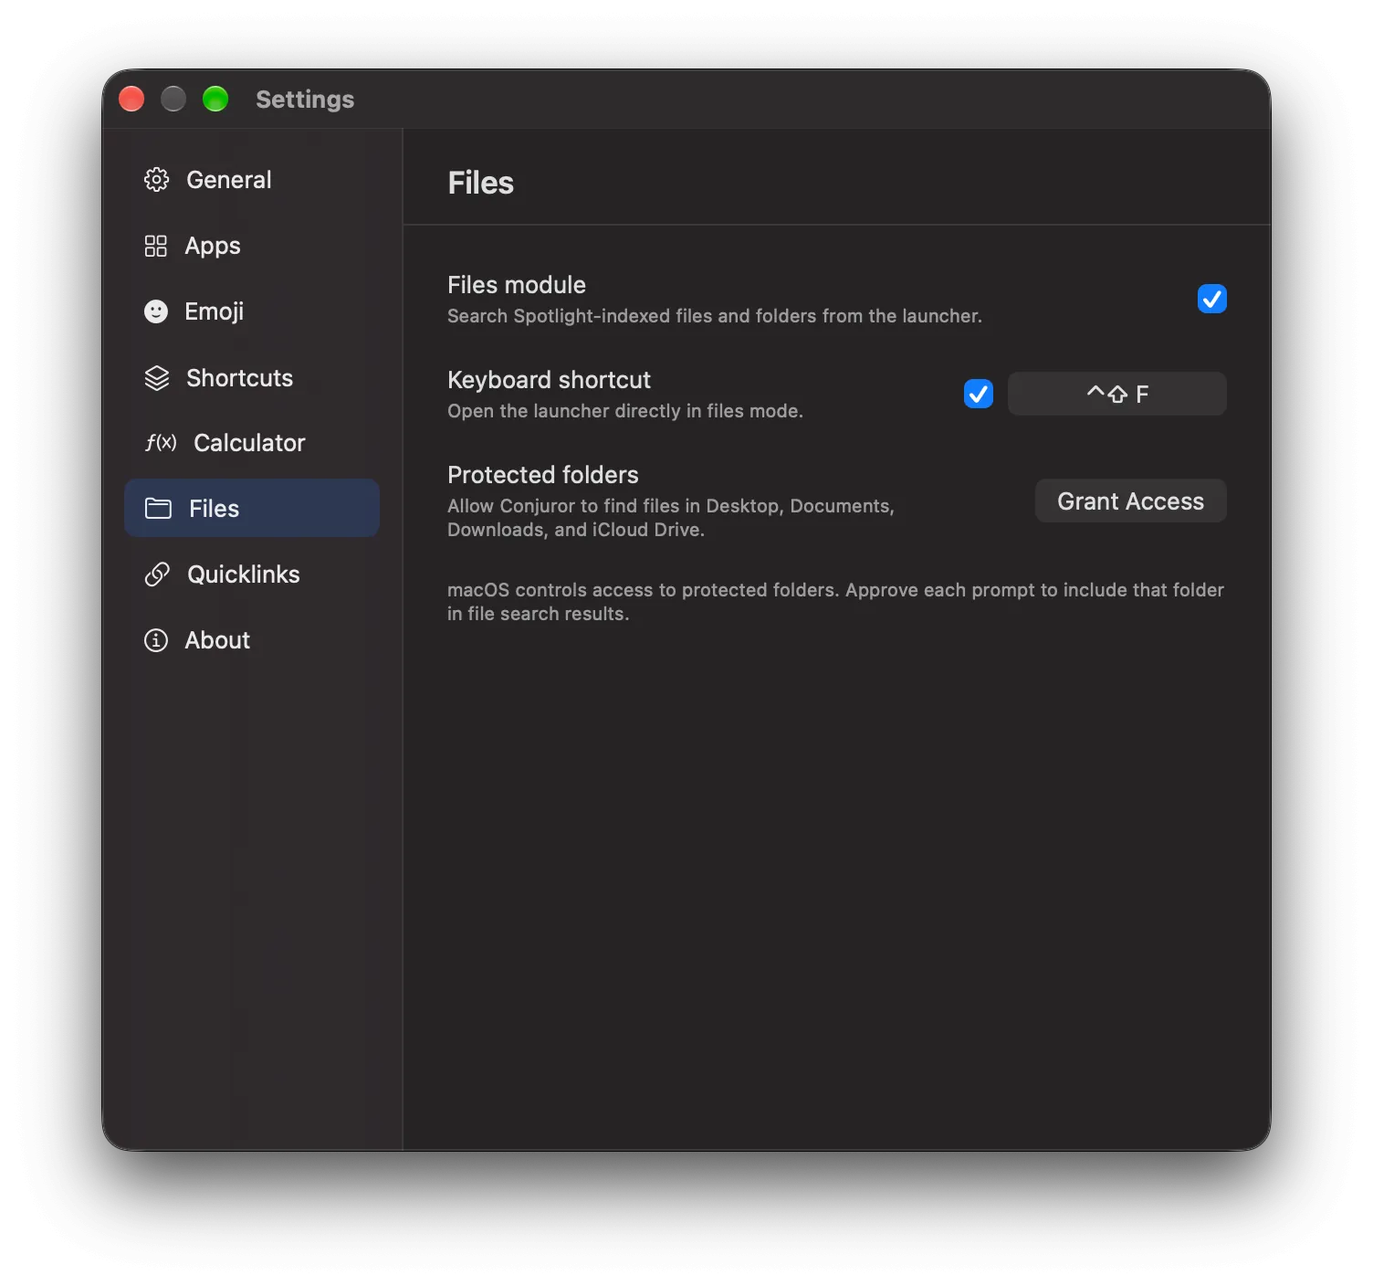
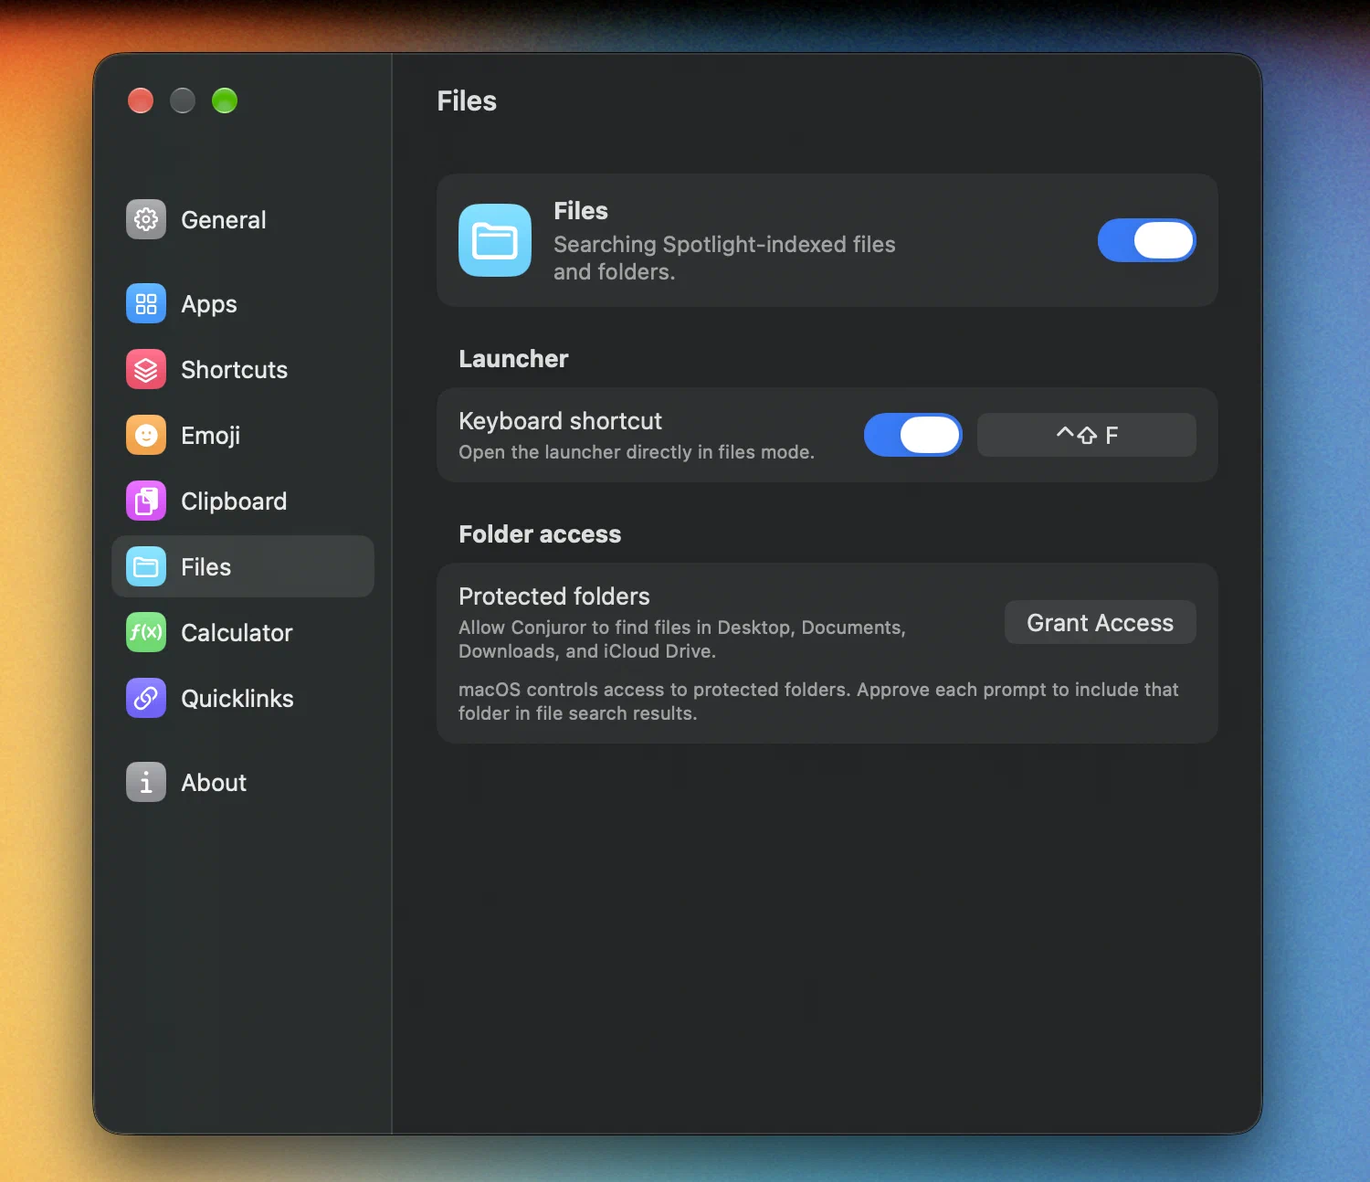
Refresh screenshots, add Clipboard mode preview, and polish docs

diff --git a/assets/css/home.css b/assets/css/home.css
@@ -42,9 +42,9 @@ h1 { font-size: clamp(3.5rem, 6.2vw, 6rem); }
 .hero-product { position: relative; min-width: 0; padding: 2rem 0; }
 .hero-instructions { margin: 1.5rem 0 0; color: var(--muted); font-size: .9rem; line-height: 1.8; text-align: center; }
 .screenshot-frame {
-  --screenshot-y: 160;
-  --screenshot-height: 620;
-  aspect-ratio: 1180 / var(--screenshot-height);
+  --screenshot-y: 74;
+  --screenshot-height: 686;
+  aspect-ratio: 1200 / var(--screenshot-height);
   position: relative;
   z-index: 2;
   overflow: hidden;
@@ -57,19 +57,19 @@ h1 { font-size: clamp(3.5rem, 6.2vw, 6rem); }
 .screenshot-frame img {
   position: absolute;
   display: block;
-  width: calc(100% * 1404 / 1180);
+  width: calc(100% * 1500 / 1200);
   max-width: none;
   height: auto;
-  left: calc(-100% * 112 / 1180);
+  left: calc(-100% * 140 / 1200);
   top: calc(-100% * var(--screenshot-y) / var(--screenshot-height));
 }
 
 
-.screenshot-frame--hero { --screenshot-height: 533; width: min(100%, 46rem); margin-left: auto; }
-.screenshot-frame--calculate { --screenshot-height: 335; }
-.screenshot-frame--files { --screenshot-height: 533; }
-.screenshot-frame--emoji { --screenshot-height: 352; }
-.screenshot-frame--shortcuts { --screenshot-height: 533; }
+.screenshot-frame--hero { --screenshot-height: 686; width: min(100%, 46rem); margin-left: auto; }
+.screenshot-frame--calculate { --screenshot-height: 356; }
+.screenshot-frame--files { --screenshot-height: 686; }
+.screenshot-frame--emoji { --screenshot-height: 374; }
+.screenshot-frame--shortcuts { --screenshot-height: 686; }
 .magic-trail { position: absolute; z-index: 1; left: -7rem; bottom: 1rem; width: 22rem; height: 11rem; border-bottom: 2px solid var(--violet); border-radius: 0 0 60% 60%; transform: rotate(-24deg); filter: drop-shadow(0 0 8px rgba(113,87,245,.5)); }
 .magic-trail span { position: absolute; width: .45rem; height: .45rem; background: var(--yellow); box-shadow: 0 0 1.2rem var(--yellow); animation: star-twinkle 3.8s ease-in-out infinite; --star-rotation: 45deg; }
 .magic-trail span:nth-child(1) { right: 7%; top: 68%; }
@@ -88,7 +88,7 @@ h1 { font-size: clamp(3.5rem, 6.2vw, 6rem); }
   gap: 1.5rem clamp(2rem, 6vw, 6rem);
 }
 
-.modes-image { --screenshot-y: 210; --screenshot-height: 700; width: 100%; }
+.modes-image { --screenshot-y: 74; --screenshot-height: 754; width: 100%; }
 .modes-image img {
   position: absolute;
   opacity: 0;
@@ -103,7 +103,7 @@ h1 { font-size: clamp(3.5rem, 6.2vw, 6rem); }
 .modes-copy p kbd { border-color: rgba(11,16,34,.24); color: var(--ink); background: rgba(255,255,255,.3); }
 .mode-list {
   display: grid;
-  grid-template-columns: repeat(3, 1fr);
+  grid-template-columns: repeat(12, 1fr);
   margin: .8rem 0 0;
   padding: 0;
   border-top: 1px solid rgba(11,16,34,.2);
@@ -111,21 +111,23 @@ h1 { font-size: clamp(3.5rem, 6.2vw, 6rem); }
   list-style: none;
 }
 
-.mode-list li { position: relative; overflow: hidden; transition: background-color .3s ease, box-shadow .3s ease; }
+.mode-list li { grid-column: span 3; position: relative; overflow: hidden; transition: background-color .3s ease, box-shadow .3s ease; }
+.mode-list li:nth-child(n+5) { grid-column: span 4; border-top: 1px solid rgba(11,16,34,.2); }
 .mode-list li + li { border-left: 1px solid rgba(11,16,34,.2); }
-.mode-list li:nth-child(3n+1) { border-left: 0; }
-.mode-list li:nth-child(n+4) { border-top: 1px solid rgba(11,16,34,.2); }
+.mode-list li:nth-child(1),
+.mode-list li:nth-child(5) { border-left: 0; }
 .mode-list li.is-active { background: rgba(255,255,255,.38); box-shadow: inset 0 -3px var(--ink); }
-.mode-list button { display: grid; width: 100%; height: 100%; justify-items: center; gap: .65rem; padding: 1.75rem 2rem 2rem; border: 0; color: inherit; background: transparent; font: inherit; text-align: center; cursor: pointer; }
+.mode-list button { display: grid; width: 100%; height: 100%; justify-items: center; gap: .65rem; padding: 1.75rem 1.4rem 2rem; border: 0; color: inherit; background: transparent; font: inherit; text-align: center; cursor: pointer; }
 .mode-list button:hover { background: rgba(255,255,255,.2); }
 .mode-selector-label { margin: 2.5rem 0 0; font-size: .85rem; font-weight: 600; }
 .mode-list button:focus-visible { outline: .18rem solid var(--violet); outline-offset: -.3rem; }
 .mode-list span { color: #5636c9; font: 650 .75rem/1 ui-monospace, "SFMono-Regular", Menlo, monospace; letter-spacing: .08em; }
 .mode-list li:nth-child(2) span { color: #075f76; }
 .mode-list li:nth-child(3) span { color: #704600; }
-.mode-list li:nth-child(4) span { color: #17548f; }
-.mode-list li:nth-child(5) span { color: #8a2f5b; }
+.mode-list li:nth-child(4) span { color: #8a2f5b; }
+.mode-list li:nth-child(5) span { color: #17548f; }
 .mode-list li:nth-child(6) span { color: #2f6b2a; }
+.mode-list li:nth-child(7) span { color: #9a3412; }
 .mode-list strong { font-size: 1.3rem; letter-spacing: -.025em; }
 .mode-list small { max-width: 16rem; color: rgba(11,16,34,.68); font-size: .95rem; line-height: 1.45; }
 

diff --git a/layouts/index.html b/layouts/index.html
@@ -29,7 +29,7 @@
         <div class="screenshot-frame modes-image" id="mode-screenshot">
           {{ range $index, $mode := $home.modes.items }}
             {{ $smallScreenshot := replace $mode.screenshot ".webp" "-900.webp" }}
-            <img class="mode-screenshot{{ if eq $index 0 }} is-active{{ end }}" src="{{ $mode.screenshot | relURL }}" srcset="{{ $smallScreenshot | relURL }} 900w, {{ $mode.screenshot | relURL }} 1404w" sizes="(max-width: 30.5rem) 72vw, (max-width: 52rem) 22rem, 28rem" alt="{{ $mode.screenshotAlt }}" width="1404" height="1100" data-mode-image="{{ $index }}"{{ if ne $index 0 }} aria-hidden="true"{{ end }}>
+            <img class="mode-screenshot{{ if eq $index 0 }} is-active{{ end }}" src="{{ $mode.screenshot | relURL }}" srcset="{{ $smallScreenshot | relURL }} 900w, {{ $mode.screenshot | relURL }} 1500w" sizes="(max-width: 30.5rem) 72vw, (max-width: 52rem) 22rem, 28rem" alt="{{ $mode.screenshotAlt }}" width="1500" height="1080" data-mode-image="{{ $index }}"{{ if ne $index 0 }} aria-hidden="true"{{ end }}>
           {{ end }}
         </div>
         <div class="modes-text">

diff --git a/assets/css/responsive.css b/assets/css/responsive.css
@@ -61,6 +61,9 @@
   .modes-copy h2 { font-size: clamp(3.2rem, 15vw, 4.8rem); }
   .modes-copy p { font-size: 1.05rem; }
   .mode-list { grid-template-columns: repeat(2, minmax(0, 1fr)); margin-top: .8rem; }
+  .mode-list li,
+  .mode-list li:nth-child(n+5) { grid-column: auto; }
+  .mode-list li:last-child:nth-child(odd) { grid-column: 1 / -1; }
   .mode-list button { padding: 1.1rem .6rem; }
   .mode-list strong { font-size: 1.1rem; }
   .mode-list small { font-size: .85rem; }

diff --git a/layouts/partials/screenshot.html b/layouts/partials/screenshot.html
@@ -1,3 +1,3 @@
 <div class="screenshot-frame {{ .class }}"{{ with .delay }} data-delay="{{ . }}"{{ end }}>
-  <img src="{{ .src | relURL }}" alt="{{ .alt }}" width="1404" height="878"{{ with .fetchPriority }} fetchpriority="{{ . }}"{{ else }} loading="lazy"{{ end }}>
+  <img src="{{ .src | relURL }}" alt="{{ .alt }}" width="1500" height="1080"{{ with .fetchPriority }} fetchpriority="{{ . }}"{{ else }} loading="lazy"{{ end }}>
 </div>

diff --git a/content/docs.md b/content/docs.md
@@ -61,17 +61,19 @@ Pasting needs Accessibility access. Until you allow it, Return copies the emoji 
 
 ## Launcher basics
 
-Press `⌥ + Space` to show Conjuror, then start typing. Use the arrow keys to select a result and press Return to open, copy, or run it. Conjuror hides after completing the action. After pasting or copying an emoji, clipboard item, or calculation result, or running a Shortcut, focus returns to the app you were using before opening Conjuror.
+Press `⌥ + Space` to show Conjuror, then start typing. Use the arrow keys to select a result and press Return to open, paste, copy, or run it. Conjuror hides after completing the action. After pasting or copying an emoji, clipboard item, or calculation result, or running a Shortcut, focus returns to the app you were using before opening Conjuror.
 
 Closing the launcher with Escape or its hotkey also returns focus to the previous app. If the query is not empty, press Escape once to clear it and again to close the launcher.
 
-Press `⌘ + Return` to reveal the selected app or file in Finder instead of opening it. Holding Return down does not repeat the action.
+Press `⌘ + Return` to reveal the selected app or file in Finder instead of opening it, or to copy the selected emoji or clipboard item without pasting. Holding Return down does not repeat the action.
 
 To change the main shortcut, open **Settings → Apps** and record a new key combination. Apple Shortcuts, Emoji, Clipboard, and Files each have a shortcut in their own Settings pane. Their defaults are `⌥ + ⇧ + Space`, `⌥ + ⇧ + E`, `⌥ + ⇧ + V`, and `⌘ + ⇧ + F`. The Clipboard shortcut only works while clipboard history is on.
 
-A mode shortcut can also be a tap of `fn` (🌐) on its own. This needs Accessibility access. macOS can also act on the 🌐 key, so Settings shows a warning until **Press 🌐 key to** is set to **Do Nothing** under **System Settings → Keyboard**. If a shortcut can’t be registered, for example `fn` before you allow Accessibility access, Conjuror tries again each time it becomes active.
+A mode shortcut can also be a tap of `fn` (🌐) on its own. This needs Accessibility access. macOS can also act on the 🌐 key, so Settings shows a warning until **Press 🌐 key to** is set to **Do Nothing** under **System Settings → Keyboard**. If a shortcut cannot be registered, for example `fn` before you allow Accessibility access, Conjuror tries again each time it becomes active.
 
 To change how the launcher looks, open **Settings → General** and choose **Launcher appearance**. Standard is the default. Minimal uses tighter spacing and smaller result rows, and hides the footer. Command Bar shows keyboard hints for the available actions, and previews the selected file or clipboard item beside the results.
+
+{{< docs-screenshot src="/images/screenshots/command-mode-files.webp" alt="Conjuror in Command Bar appearance searching files for “Four Against”, showing a side-by-side preview of the selected PDF and keyboard hints for Open item and Reveal" caption="Command Bar appearance adds keyboard hints and a side-by-side preview in Files and Clipboard modes." >}}
 
 While the search field is active, you can use the standard shortcuts for copy, paste, cut, select all, undo, and redo.
 
@@ -93,7 +95,7 @@ Give an app a short alias to rank it first. For example, with the alias `vs` for
 
 An app hotkey opens the app from anywhere, or switches to it if it is already running. Press the hotkey again while the app is in front to hide it. App hotkeys work without opening the launcher.
 
-{{< docs-screenshot src="/images/screenshots/alias.webp" alt="Conjuror showing Helium first for the query “brow”, with its alias “browse” next to the result" caption="Typing the start of an alias ranks its app first and shows the alias beside it." >}}
+{{< docs-screenshot src="/images/screenshots/alias.webp" alt="Conjuror showing Helium first for the query “bro”, with its alias “browser” next to the result" caption="Typing the start of an alias ranks its app first and shows the alias beside it." >}}
 
 To add an alias or hotkey, open **Settings → Apps**, choose **Aliases & Hotkeys**, then click **Add…** and pick an app. Aliases and hotkeys follow an app if you move it, as long as only one copy is installed. If a hotkey cannot be registered, for example because another app already uses it, your other hotkeys keep working.
 
@@ -107,7 +109,7 @@ To hide an app from search and recent results, open **Settings → Apps**, choos
 
 A quicklink opens a URL from the launcher. Type its keyword followed by search text, such as `gh swift testing`, to search GitHub for “swift testing”. Typing part of a quicklink’s name also finds it, listed after matching apps. If you press Return on a keyword with nothing after it, Conjuror fills in the keyword so you can keep typing.
 
-{{< docs-screenshot src="/images/screenshots/quicklink.webp" alt="Conjuror showing the GitHub quicklink for “gh swift testing” and a DuckDuckGo web search row" caption="The GitHub quicklink searches for the text after its keyword. The last row searches the web." >}}
+{{< docs-screenshot src="/images/screenshots/quicklink.webp" alt="Conjuror showing the GitHub quicklink for “gh swift testing” and a Kagi web search row" caption="The GitHub quicklink searches for the text after its keyword. The last row searches the web." >}}
 
 Conjuror includes Google (`g`), DuckDuckGo (`ddg`), GitHub (`gh`), and Wikipedia (`wiki`). Add, edit, or remove quicklinks under **Settings → Quicklinks**. Put `{query}` in the URL where the search text should go, as in `https://kagi.com/search?q={query}`. A URL without `{query}` opens as it is. Each quicklink opens in the default app for its URL unless you choose a different app. **Restore Built-ins** brings back any of the four built-in quicklinks you have removed.
 
@@ -115,7 +117,7 @@ The last row in application results searches the web for your query. Select it a
 
 Your search text is only sent to a site when you open one of its quicklinks or a web search.
 
-{{< docs-screenshot src="/images/screenshots/settings-quicklinks.webp" alt="Conjuror Quicklinks settings showing DuckDuckGo as the web search fallback and the built-in Google, DuckDuckGo, GitHub, and Wikipedia quicklinks" caption="Manage quicklinks and choose the web search fallback from Settings → Quicklinks." >}}
+{{< docs-screenshot src="/images/screenshots/settings-quicklinks.webp" alt="Conjuror Quicklinks settings showing Kagi as the web search fallback and the GitHub, Wikipedia, and Kagi quicklinks" caption="Manage quicklinks and choose the web search fallback from Settings → Quicklinks." >}}
 
 ## Running apps
 
@@ -133,7 +135,7 @@ Type `@` to list running apps, then press Return to switch to one. Excluded apps
 
 Force quitting and quitting every app ask first: press Return to confirm or Escape to cancel. Apps you hide stay hidden when the launcher closes.
 
-{{< docs-screenshot src="/images/screenshots/running-confirm.webp" alt="Conjuror in Running apps mode asking to confirm force quitting Discord, with Cancel and Force Quit buttons" caption="Force quit asks for confirmation before it runs." >}}
+{{< docs-screenshot src="/images/screenshots/running-confirm.webp" alt="Conjuror in Running apps mode asking to confirm force quitting Rex, with Cancel and Force Quit buttons" caption="Force quit asks for confirmation before it runs." >}}
 
 ## System commands
 
@@ -171,9 +173,9 @@ Desktop, Documents, Downloads, and iCloud Drive are protected by macOS. Conjuror
 
 Use `⌘ + ⇧ + F` to open Conjuror directly in Files mode. You can turn this shortcut off or record a different key combination under **Settings → Files**.
 
-To remove Files mode from the launcher, turn off **Files module** in the same Settings pane.
+To remove Files mode from the launcher, turn off **Files** in the same Settings pane.
 
-{{< docs-screenshot src="/images/screenshots/settings-files.webp" alt="Conjuror Files settings showing the enabled Files module, direct shortcut, and protected-folder access including iCloud Drive" caption="Enable file search, configure its shortcut, and grant protected-folder access from Settings → Files." >}}
+{{< docs-screenshot src="/images/screenshots/settings-files.webp" alt="Conjuror Files settings showing Files enabled, the direct keyboard shortcut, and protected-folder access including iCloud Drive" caption="Enable file search, configure its shortcut, and grant protected-folder access from Settings → Files." >}}
 
 ## Calculations
 
@@ -217,9 +219,13 @@ Use `to`, `in`, `->`, or `→` to convert a quantity to a specific unit. You can
 30 °C to °F
 5 ft 3 in
 100 lbs
+90 days in months
+2 years in days
 ```
 
-If you omit the target unit, Conjuror chooses a common counterpart. For example, it converts pounds to kilograms, centimetres to inches, or miles to kilometres. US customary volume units use US definitions.
+If you omit the target unit, Conjuror chooses a common counterpart. For example, it converts pounds to kilograms, centimetres to inches, miles to kilometres, or bare days to weeks (such as `1000 days`). US customary volume units use US definitions.
+
+Duration conversions support seconds, minutes, hours, days, weeks, months, and years, using fixed average durations (365.25 days per year and 30.4375 days per month) rather than calendar intervals. Results use unit symbols such as `wk`, `mo`, and `yr`.
 
 ### Relative dates
 
@@ -274,6 +280,8 @@ You can use arithmetic in the amount. To name the source currency after the arit
 
 If you omit the target currency, Conjuror uses the currency from your regional settings. It downloads a complete rate snapshot from [Frankfurter](https://frankfurter.dev) daily after a successful refresh; failed requests may be retried sooner. Your search text is never sent. The latest snapshot remains available offline, and disabling currency conversion removes the cached rates.
 
+{{< docs-screenshot src="/images/screenshots/settings-calculator.webp" alt="Conjuror Calculator settings showing the optional Currency conversion toggle enabled" caption="Turn optional daily exchange-rate downloads on or off from Settings → Calculator." >}}
+
 ## Emoji
 
 Type `:` to switch to Emoji mode, then search by emoji name or common keyword. For example, `lol` finds 😂 even though the word is not part of its Unicode name. Results include gender and skin-tone variants from the latest Unicode catalog.
@@ -284,15 +292,23 @@ Leave the search empty to see recently used emoji first. To apply the same skin 
 
 To remove Emoji mode from the launcher, turn it off under **Settings → Emoji**.
 
+{{< docs-screenshot src="/images/screenshots/settings-emoji.webp" alt="Conjuror Emoji settings showing Emoji enabled, the fn keyboard shortcut, and Light selected as the preferred skin tone" caption="Turn Emoji mode on or off, set its shortcut, and pick a default skin tone from Settings → Emoji." >}}
+
 ## Clipboard history
 
 Clipboard history is off by default. Turn it on under **Settings → Clipboard**, then type `#` or press `⌥ + ⇧ + V` to search text you have copied. Your most recent items come first, and each one shows the app it came from and how long ago you copied it.
 
+{{< docs-screenshot src="/images/screenshots/clipboard.webp" alt="Conjuror in Clipboard history mode listing recent text copies with their source app and age" caption="Clipboard history lists recent copies alongside the app they came from and when you copied them." >}}
+
 Press Return, or click an item, to paste it into the app you were using. Pasting needs Accessibility access; until you allow it, Return copies the item instead. Press `⌘ + Return` to copy an item without pasting, or `⌃ + X` to remove it from your history.
+
+{{< docs-screenshot src="/images/screenshots/command-mode-clipboard.webp" alt="Conjuror in Command Bar appearance showing Clipboard history with a side-by-side text preview, source, character count, and Paste and Copy keyboard hints" caption="In Command Bar appearance, Clipboard history previews the selected copy beside the list." >}}
 
 Conjuror keeps plain text only. It skips text copied from password managers such as 1Password, Bitwarden, KeePassXC, Keychain Access, and Passwords, and anything an app marks as concealed or temporary. macOS may ask whether Conjuror can paste from other apps the first time it reads text you copied elsewhere.
 
 Under **Keep history for**, choose 1 day, 7 days, 30 days, 3 months, or forever. The default is 30 days, and Conjuror keeps up to 1,000 items. **Clear History…** deletes every item, and turning clipboard history off deletes it too. Your history stays on your Mac.
+
+{{< docs-screenshot src="/images/screenshots/settings-clipboard.webp" alt="Conjuror Clipboard settings showing clipboard history enabled, the ⌥⇧V keyboard shortcut, Paste into apps allowed, 30 Days retention, and Clear History" caption="Enable clipboard history, check paste access, and manage retention from Settings → Clipboard." >}}
 
 ## Apple Shortcuts
 
@@ -302,17 +318,19 @@ Recently run Shortcuts appear first when the search is empty and can rank higher
 
 Conjuror refreshes your Shortcuts each time you open Apple Shortcuts mode. Your existing list stays searchable while it refreshes. To remove Apple Shortcuts mode from the launcher, turn it off under **Settings → Shortcuts**.
 
+{{< docs-screenshot src="/images/screenshots/settings-shortcuts.webp" alt="Conjuror Shortcuts settings showing Apple Shortcuts enabled and the ⌥⇧Space keyboard shortcut" caption="Turn Apple Shortcuts mode on or off and set its shortcut from Settings → Shortcuts." >}}
+
 ## Settings
 
 Open Settings from the menu bar item, or press `⌘ + ,` while Conjuror is active. The window opens on your currently active macOS Space. Choose a pane from the sidebar. You can resize the window vertically, and it remembers its height.
 
 - **General:** Turn launch at login on or off, choose the launcher appearance and accent colour, and set how many results appear before scrolling. Appearance choices are Standard, Minimal, and Command Bar. Accent choices include Cyan, Purple, Yellow, a custom colour, or Disabled.
 - **Apps:** Change the main launcher shortcut, choose whether application search includes System Settings sections and system commands, manage app aliases and hotkeys, and exclude apps from search.
+- **Shortcuts:** Turn Apple Shortcuts mode on or off and configure the shortcut that opens it directly.
 - **Emoji:** Turn Emoji mode on or off, configure the shortcut that opens it directly, and choose the skin tone Conjuror applies to supported emoji by default.
 - **Clipboard:** Turn clipboard history on or off, configure the shortcut that opens it directly, check whether Return can paste, choose how long to keep history, and clear it.
-- **Shortcuts:** Turn Apple Shortcuts mode on or off and configure the shortcut that opens it directly.
-- **Calculator:** Turn optional currency conversion on or off.
 - **Files:** Turn file and folder search on or off, configure its direct shortcut, and request access to the protected Desktop, Documents, Downloads, and iCloud Drive locations.
+- **Calculator:** Turn optional currency conversion on or off.
 - **Quicklinks:** Add, edit, or remove quicklinks, restore the built-in ones, and choose the web search fallback.
 - **About:** Check the installed version and the status of each permission, report a bug, copy diagnostics for a bug report, and open the GitHub repository, licence, and credits.
 
@@ -333,6 +351,8 @@ Accessibility access lets Return paste an emoji or clipboard item into the app y
 Clipboard history needs permission to read text you copy in other apps. macOS asks the first time Conjuror reads it, and only while clipboard history is on.
 
 **Settings → About** shows the status of each permission and opens the matching page in System Settings.
+
+{{< docs-screenshot src="/images/screenshots/settings-about.webp" alt="Conjuror About settings showing the app version, support and diagnostics buttons, and permission statuses for Accessibility, Paste from other apps, and Protected folders" caption="Check permission status, copy diagnostics, and open System Settings from Settings → About." >}}
 
 File search uses the on-device Spotlight index. macOS may ask before Conjuror can access Desktop, Documents, Downloads, or iCloud Drive; you can trigger those prompts from **Settings → Files**.
 
